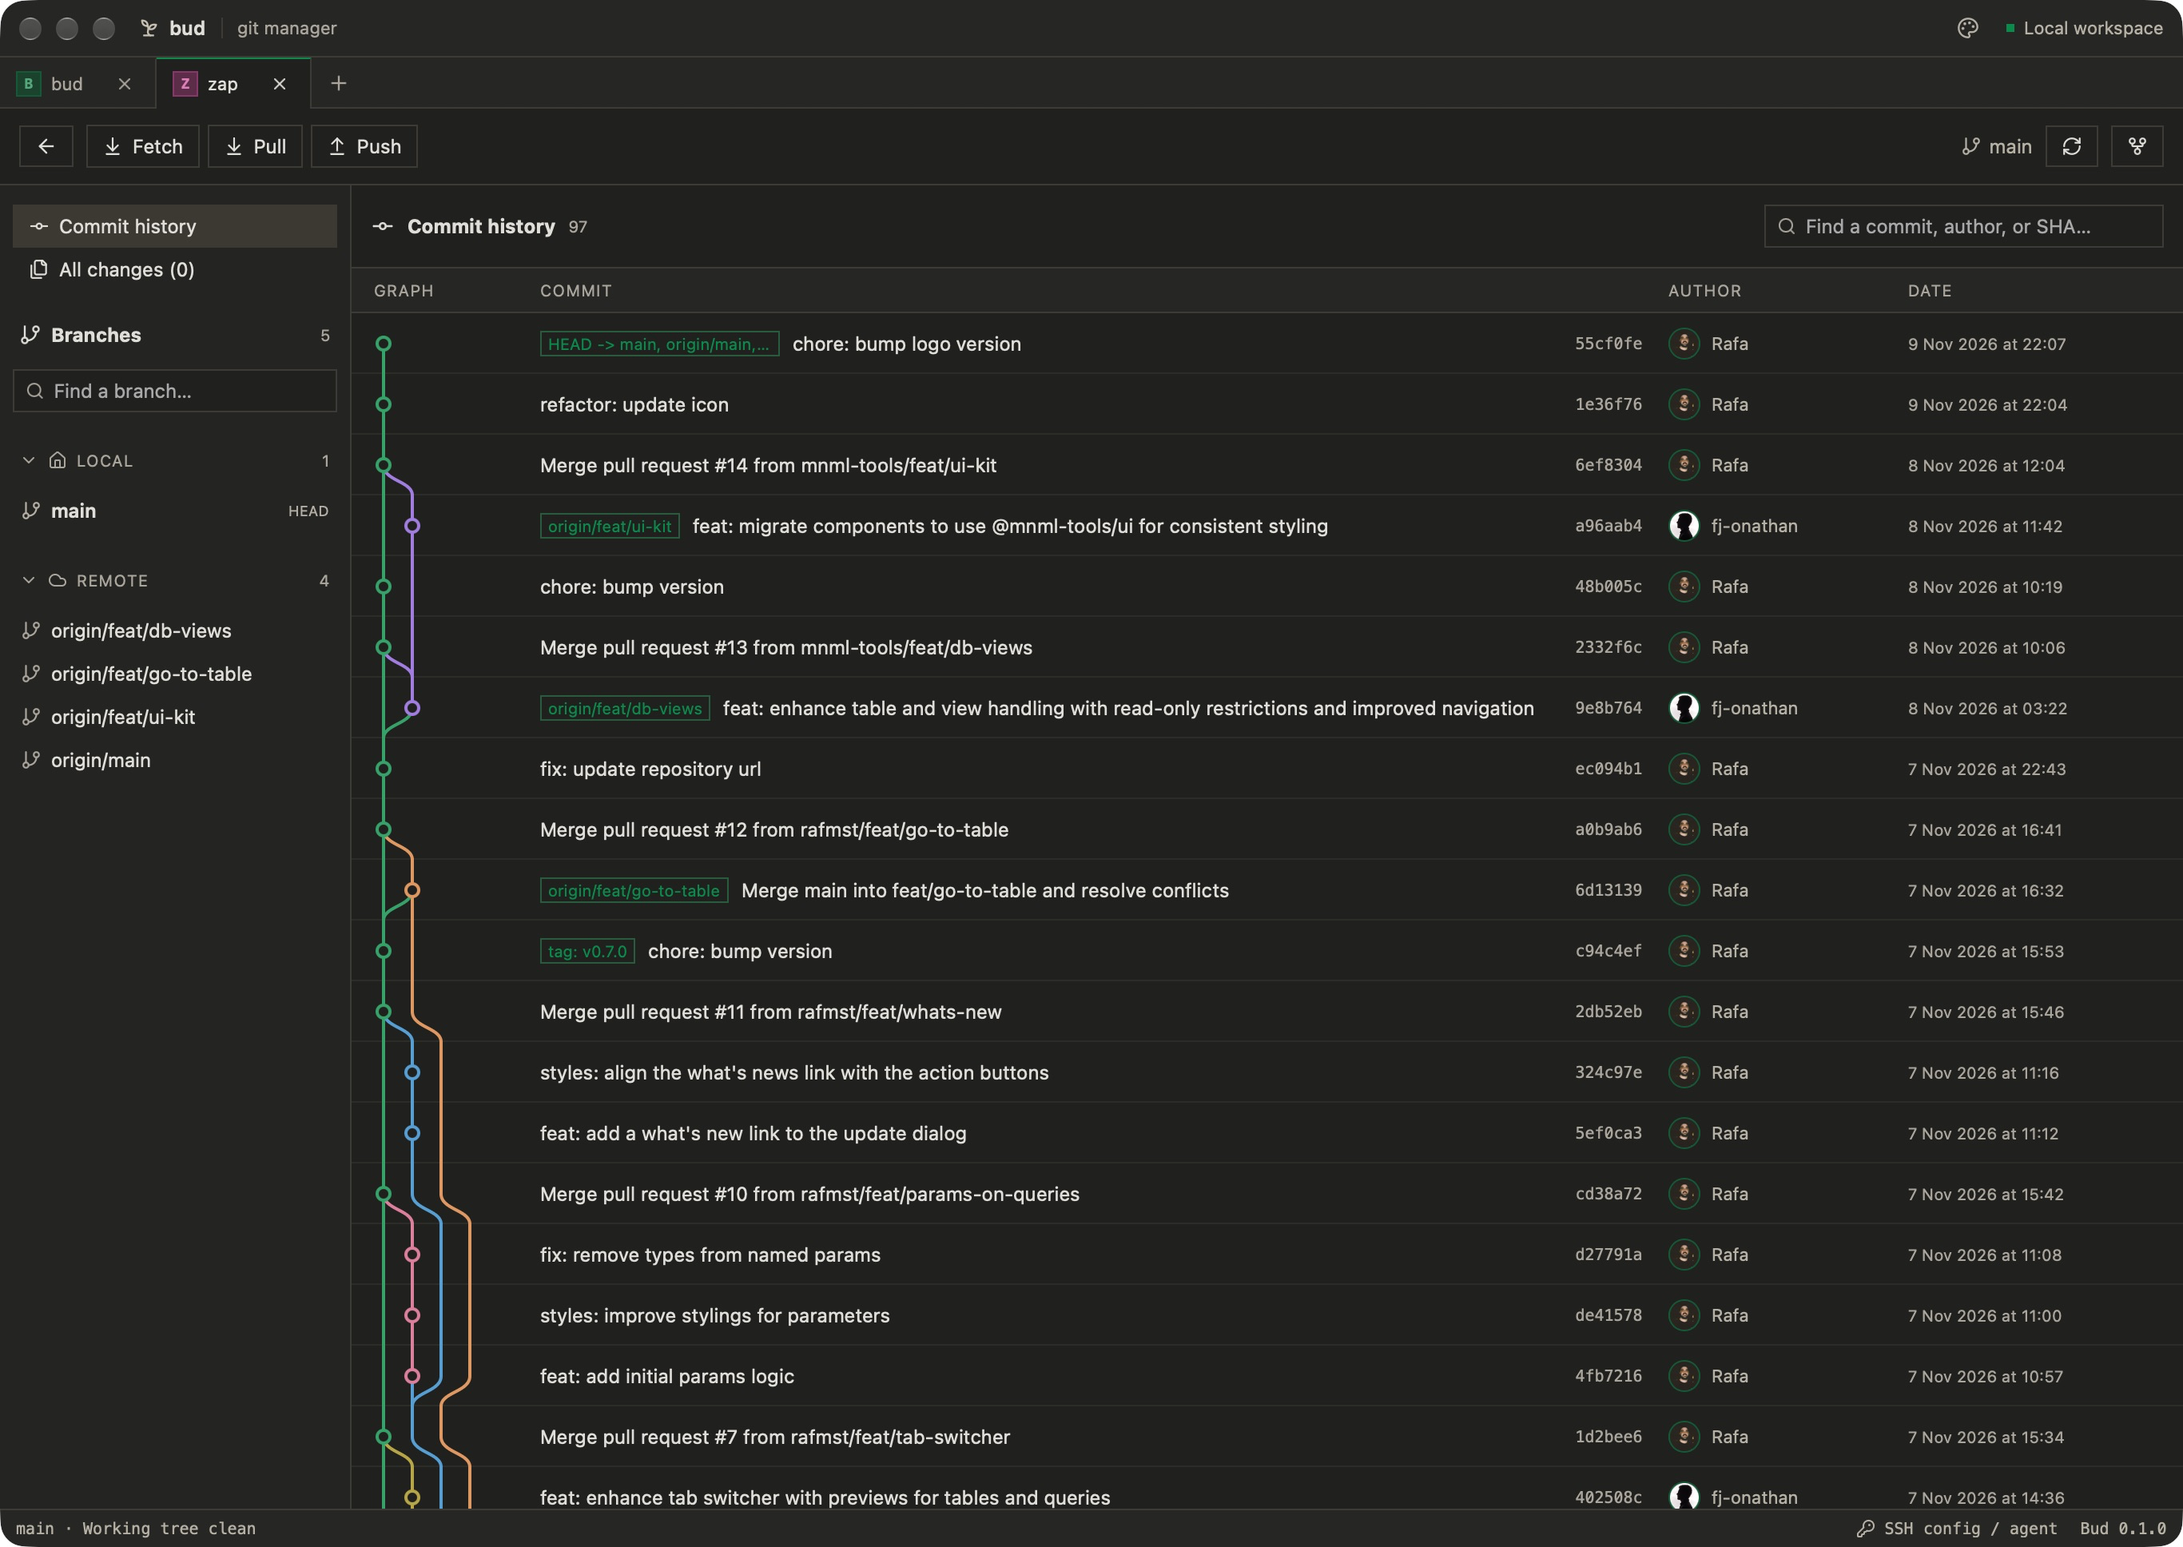
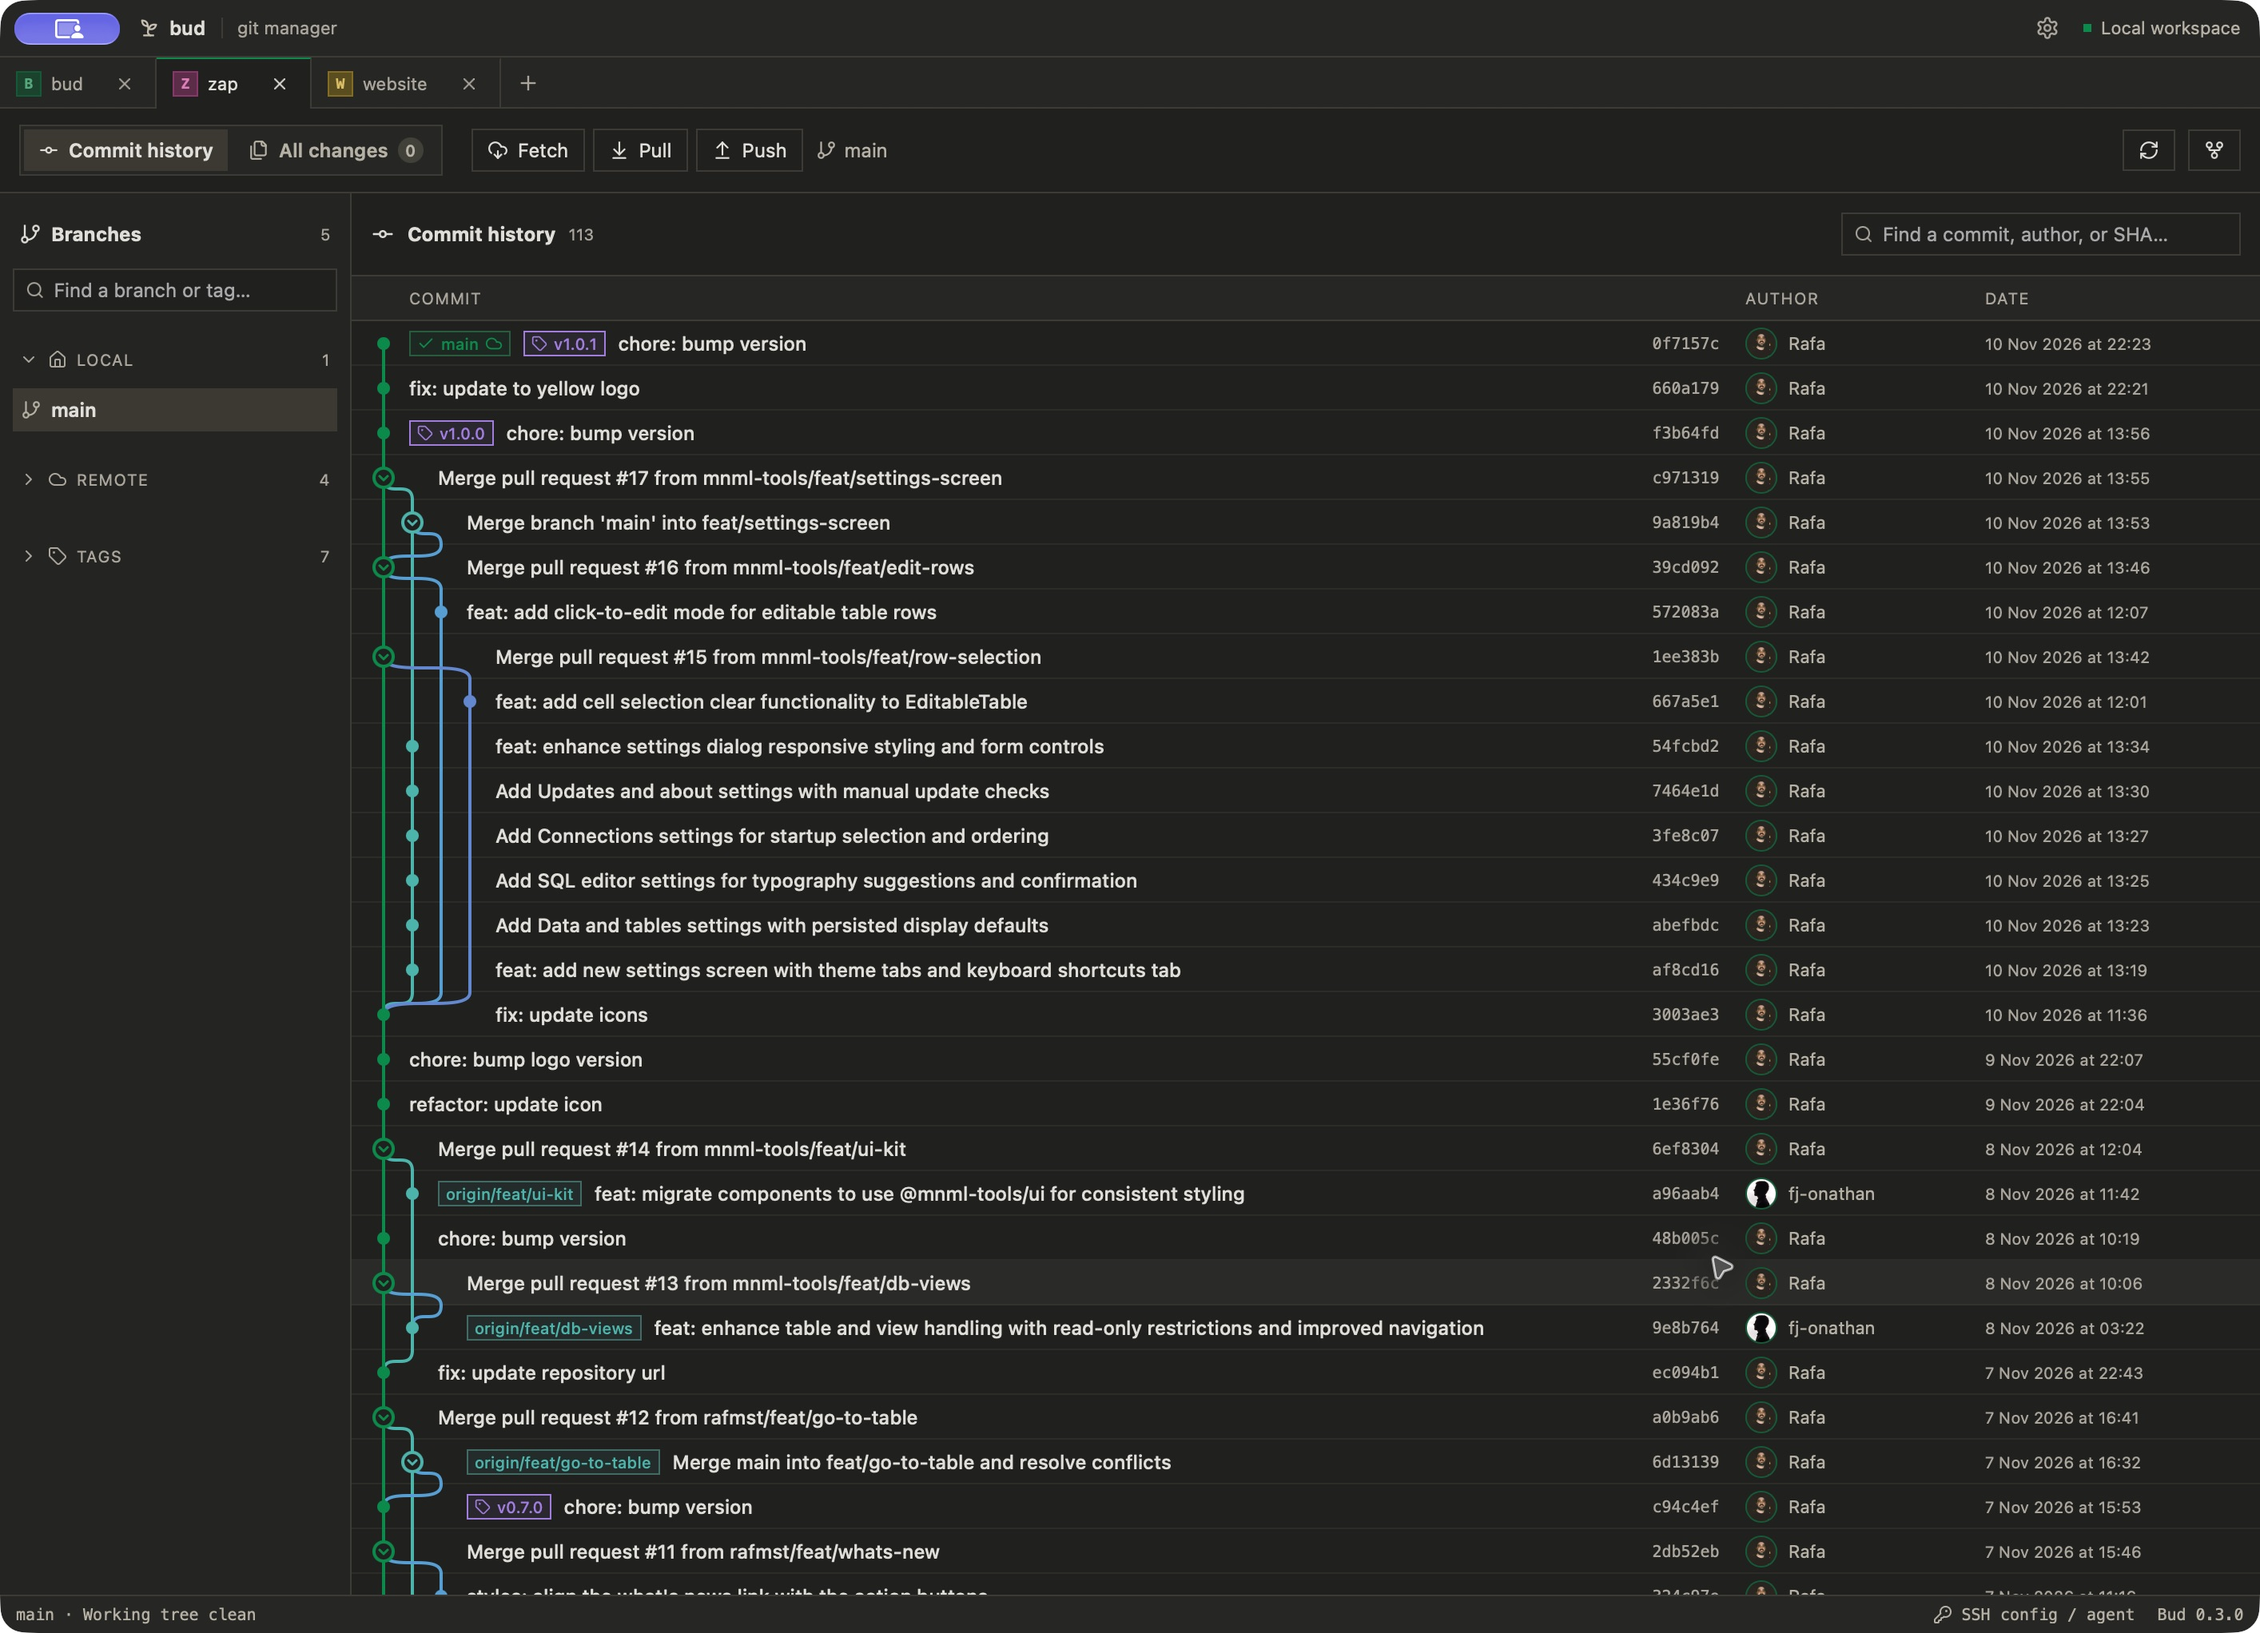
fix(images): update Bud screenshots and dimensions
Replace the Bud light and dark screenshots and set their displayed dimensions to match the updated images.

diff --git a/src/components/molecules/ProductCard.tsx b/src/components/molecules/ProductCard.tsx
@@ -25,8 +25,8 @@ export function ProductCard({ product, index }: { product: Product; index: numbe
           src={`/images/${product.slug}-light.png`}
           alt={`${product.name} desktop workspace`}
           loading="lazy"
-          width="1440"
-          height="900"
+          width={product.slug === 'bud' ? 2828 : 1440}
+          height={product.slug === 'bud' ? 2044 : 900}
         />
       </div>
     </a>
